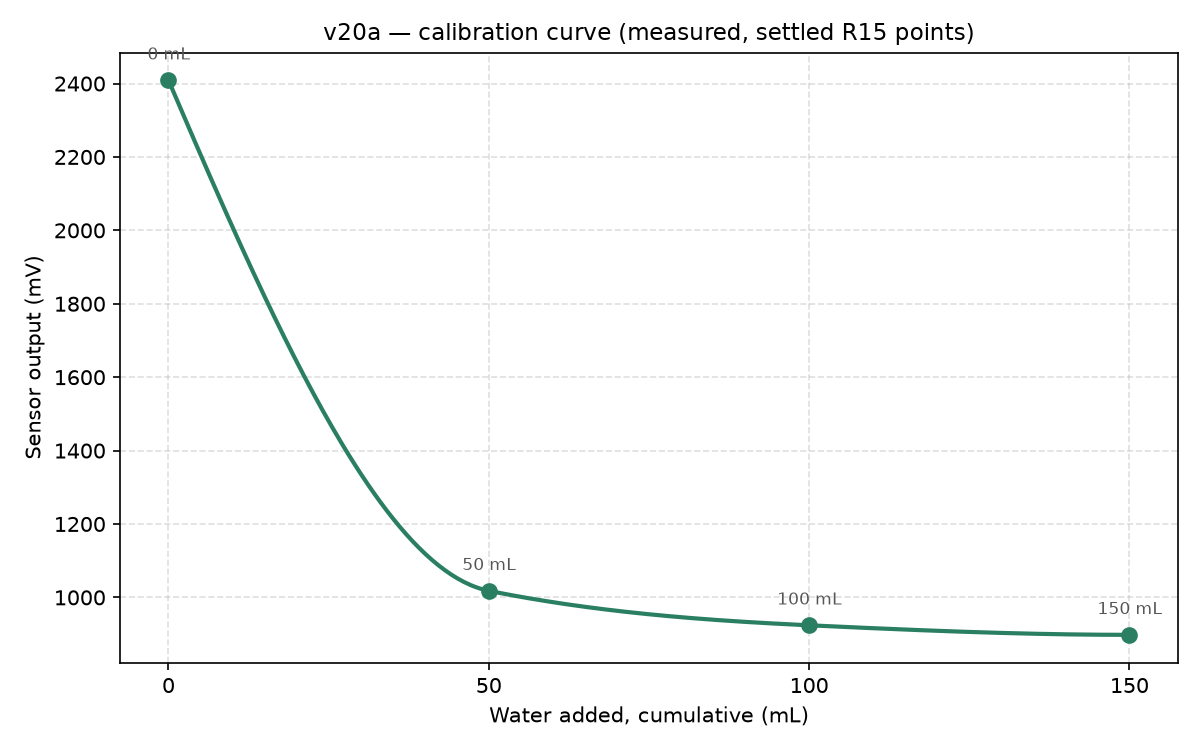
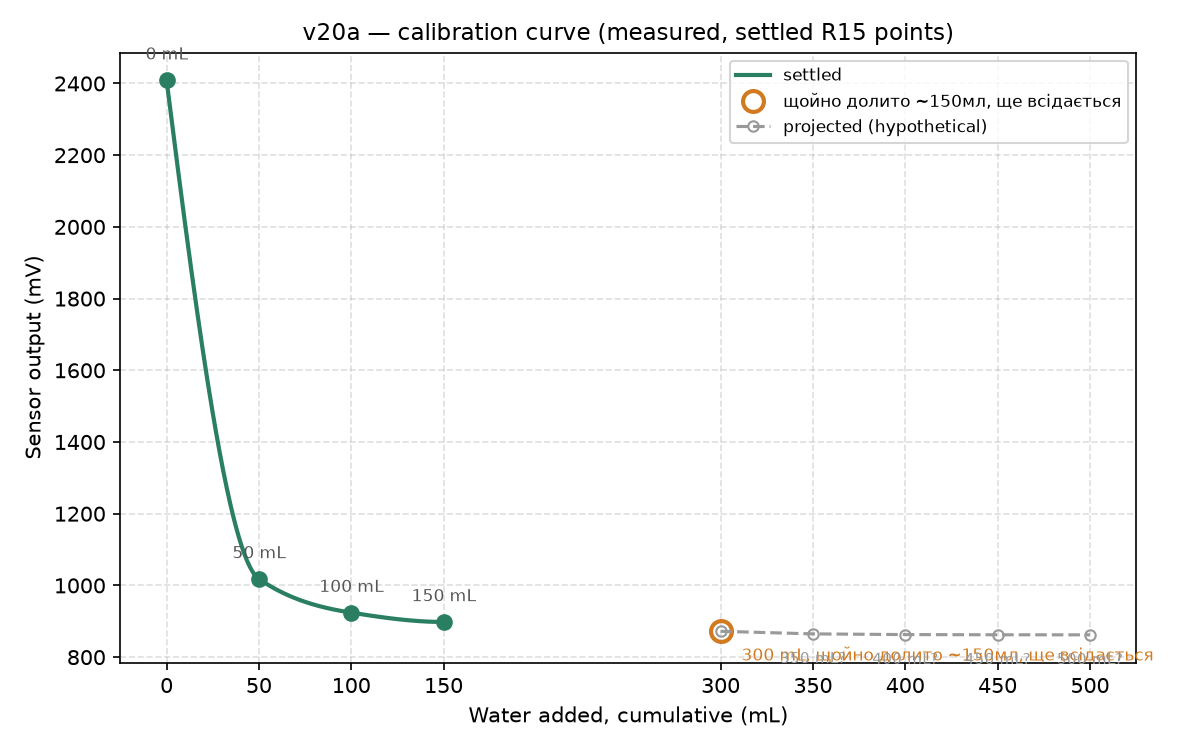
feat(soil-calibration): add point 4 (300 mL) + hypothetical extrapolation
Point 4 (150 -> 300 mL, +150 mL poured at once) confirmed at ~875 mV
(data/point4.txt), matches the live reading used in the graph. Add
--project to plot_calibration_curve.py: dashed geometric-decay
extrapolation beyond the last real/live point, ratio derived from the last
two measured deltas. Document the projection formula and its derivative
(mV/mL sensitivity per step) under the graph in the README.

diff --git a/firmware/soil-calibration/tools/plot_calibration_curve.py b/firmware/soil-calibration/tools/plot_calibration_curve.py
@@ -50,6 +50,15 @@ def parse_args() -> argparse.Namespace:
         "--live-point",
         help="точка, що ще пишеться й не всілась: 'мл,мВ' (наприклад '150,876'), малюється окремо",
     )
+    parser.add_argument(
+        "--project",
+        type=int,
+        default=0,
+        help="скільки ГІПОТЕТИЧНИХ точок домалювати за останньою (пунктиром, не замір) — "
+             "екстраполяція геометричним спаданням дельти, узятим з останніх двох реальних кроків",
+    )
+    parser.add_argument("--project-ratio", type=float, help="коефіцієнт спадання дельти; типово рахується з даних")
+    parser.add_argument("--project-step", type=float, help="крок мл для проекції; типово як останній реальний крок")
     parser.add_argument("--live-label", default="ще пишеться", help="підпис для --live-point")
     parser.add_argument("--out", type=Path, default=Path(__file__).resolve().parent.parent / "data" / "calibration_curve.png")
     return parser.parse_args()
@@ -144,14 +153,50 @@ def main() -> None:
                  markeredgecolor="#d17a1f", markeredgewidth=2, linestyle="none", label=args.live_label)
         ax.annotate(f"{live_ml:.0f} mL, {args.live_label}", (live_ml, live_mv),
                     textcoords="offset points", xytext=(10, -14), ha="left", fontsize=8, color="#d17a1f")
-        ax.legend(loc="upper right", fontsize=8)
+
+    proj_x: list[float] = []
+    if args.project > 0:
+        # Спадання дельти між останніми двома реальними кроками — те саме
+        # насичення, яке видно на кожному кроці кривої (кожен наступний
+        # долив рухає показник дедалі менше). Продовжуємо той самий темп
+        # ГІПОТЕТИЧНО, не заміром — тому пунктир і окремий колір.
+        if len(waters) >= 3:
+            d_last = mv[-1] - mv[-2]
+            d_prev = mv[-2] - mv[-3]
+            ratio = args.project_ratio if args.project_ratio is not None else (
+                d_last / d_prev if d_prev else 0.3
+            )
+        else:
+            d_last = -30.0
+            ratio = args.project_ratio if args.project_ratio is not None else 0.3
+        step = args.project_step if args.project_step is not None else (
+            waters[-1] - waters[-2] if len(waters) >= 2 else 50.0
+        )
+
+        start_x = live_ml if live_ml is not None else waters[-1]
+        start_y = live_mv if live_mv is not None else mv[-1]
+        proj_x = [start_x]
+        proj_y = [start_y]
+        delta = d_last
+        for _ in range(args.project):
+            delta *= ratio
+            proj_x.append(proj_x[-1] + step)
+            proj_y.append(proj_y[-1] + delta)
+
+        ax.plot(proj_x, proj_y, linestyle="--", color="#999999", linewidth=1.5,
+                 marker="o", markersize=5, markerfacecolor="none", label="projected (hypothetical)")
+        for w, v in zip(proj_x[1:], proj_y[1:], strict=True):
+            ax.annotate(f"{w:.0f} mL?", xy=(w, v), textcoords="offset points",
+                        xytext=(0, -14), ha="center", fontsize=7, color="#999999")
 
     ax.set_xlabel("Water added, cumulative (mL)")
     ax.set_ylabel("Sensor output (mV)")
     ax.set_title(title, fontsize=11)
     ax.grid(True, linestyle="--", alpha=0.4)
-    all_ticks = sorted(set(waters) | ({live_ml} if live_ml is not None else set()))
+    all_ticks = sorted(set(waters) | ({live_ml} if live_ml is not None else set()) | set(proj_x))
     ax.set_xticks(all_ticks)
+    if ax.get_legend_handles_labels()[1]:
+        ax.legend(loc="upper right", fontsize=8)
     fig.tight_layout()
 
     args.out.parent.mkdir(parents=True, exist_ok=True)

diff --git a/firmware/soil-calibration/README.md b/firmware/soil-calibration/README.md
@@ -278,8 +278,36 @@ make soil-summary
 ![Калібрувальна крива v2.0: мл води -> мВ](data/calibration_curve.png)
 
 (реальні усталені точки `R15`, сенсор `v20a`: 0/50/100/150 мл →
-2409/1018/924/898 мВ; будується `tools/plot_calibration_curve.py --points`,
+2409/1018/924/898 мВ; відкрита точка — 300 мл, свіжий долив ~150 мл, ще
+всідається; пунктир — гіпотетична проекція, не замір. Будується
+`tools/plot_calibration_curve.py --points ... --live-point ... --project N`,
 джерело чисел — `data/points.csv`)
+
+**Формула пунктирної проекції.** Кожен наступний долив рухає показник дедалі
+менше — той самий ефект насичення, що й у формулі `R(t)` вище. Апроксимація
+геометричним спаданням дельти:
+
+```
+mV(V) = mV_last + Δ_last · r^((V − V_last) / step)        r = Δ_last / Δ_prev
+```
+
+Похідна — чутливість (мВ на 1 мл) у будь-якій точці V:
+
+```
+d(mV)/dV = (Δ_last · ln r / step) · r^((V − V_last) / step)
+```
+
+Заміряні дельти (сенсор `v20a`, крок 50 мл) — і є похідна, без апроксимації:
+
+| крок | Δ, мВ | Δ/мл |
+|---|---:|---:|
+| 0→50 мл | −1391 | −27,8 мВ/мл (повітря→ґрунт, не порівнювати з рештою) |
+| 50→100 мл | −94 | **−1,88 мВ/мл** |
+| 100→150 мл | −26 | **−0,52 мВ/мл** |
+
+`r = Δ_last/Δ_prev = −26 / −94 ≈ 0,28` — кожен наступний крок робить ~28% від
+попереднього. Це і продовжує пунктир: 150 → 300 → 350 → ... мл з дельтою, що
+щоразу скорочується в ~3,6 раза.
 
 ```
 крайні точки сенсорів (повітря / вода, не ґрунт):
